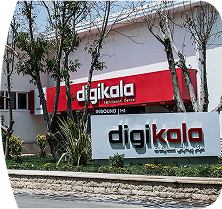
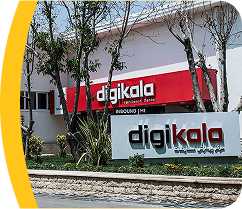
fix event image

diff --git a/public/assets/css/output.css b/public/assets/css/output.css
@@ -7,6 +7,9 @@
       "Segoe UI Emoji", "Segoe UI Symbol", "Noto Color Emoji";
     --font-mono: ui-monospace, SFMono-Regular, Menlo, Monaco, Consolas, "Liberation Mono",
       "Courier New", monospace;
+    --color-yellow-400: oklch(85.2% 0.199 91.936);
+    --color-blue-500: oklch(62.3% 0.214 259.815);
+    --color-gray-100: oklch(96.7% 0.003 264.542);
     --color-black: #000;
     --color-white: #fff;
     --spacing: 0.25rem;
@@ -22,6 +25,9 @@
     --text-xl--line-height: calc(1.75 / 1.25);
     --text-2xl: 1.5rem;
     --text-2xl--line-height: calc(2 / 1.5);
+    --text-3xl: 1.875rem;
+    --text-3xl--line-height: calc(2.25 / 1.875);
+    --font-weight-bold: 700;
     --font-weight-black: 900;
     --radius-lg: 0.5rem;
     --radius-xl: 0.75rem;
@@ -245,6 +251,9 @@
   .left-0 {
     left: calc(var(--spacing) * 0);
   }
+  .z-10 {
+    z-index: 10;
+  }
   .z-50 {
     z-index: 50;
   }
@@ -268,6 +277,9 @@
     @media (width >= 96rem) {
       max-width: 96rem;
     }
+  }
+  .m-5 {
+    margin: calc(var(--spacing) * 5);
   }
   .container {
     margin-inline: auto;
@@ -402,8 +414,14 @@
   .h-14 {
     height: calc(var(--spacing) * 14);
   }
+  .h-18 {
+    height: calc(var(--spacing) * 18);
+  }
   .h-21 {
     height: calc(var(--spacing) * 21);
+  }
+  .h-30 {
+    height: calc(var(--spacing) * 30);
   }
   .h-32 {
     height: calc(var(--spacing) * 32);
@@ -416,6 +434,9 @@
   }
   .h-42\.5 {
     height: calc(var(--spacing) * 42.5);
+  }
+  .h-64 {
+    height: calc(var(--spacing) * 64);
   }
   .h-86 {
     height: calc(var(--spacing) * 86);
@@ -440,6 +461,9 @@
   }
   .h-full {
     height: 100%;
+  }
+  .h-screen {
+    height: 100vh;
   }
   .max-h-12 {
     max-height: calc(var(--spacing) * 12);
@@ -468,6 +492,9 @@
   .w-1\/2 {
     width: calc(1/2 * 100%);
   }
+  .w-2 {
+    width: calc(var(--spacing) * 2);
+  }
   .w-3 {
     width: calc(var(--spacing) * 3);
   }
@@ -494,6 +521,9 @@
   }
   .w-20 {
     width: calc(var(--spacing) * 20);
+  }
+  .w-24 {
+    width: calc(var(--spacing) * 24);
   }
   .w-25 {
     width: calc(var(--spacing) * 25);
@@ -591,6 +621,9 @@
   }
   .grid-cols-3 {
     grid-template-columns: repeat(3, minmax(0, 1fr));
+  }
+  .grid-cols-\[664px_1fr\] {
+    grid-template-columns: 664px 1fr;
   }
   .\[grid-template-rows\:repeat\(2\,86px\)\] {
     grid-template-rows: repeat(2,86px);
@@ -694,6 +727,22 @@
   .rounded-xl {
     border-radius: var(--radius-xl);
   }
+  .rounded-l-\[60px\] {
+    border-top-left-radius: 60px;
+    border-bottom-left-radius: 60px;
+  }
+  .rounded-l-\[200px\] {
+    border-top-left-radius: 200px;
+    border-bottom-left-radius: 200px;
+  }
+  .rounded-l-full {
+    border-top-left-radius: calc(infinity * 1px);
+    border-bottom-left-radius: calc(infinity * 1px);
+  }
+  .rounded-r-\[100\%\] {
+    border-top-right-radius: 100%;
+    border-bottom-right-radius: 100%;
+  }
   .border {
     border-style: var(--tw-border-style);
     border-width: 1px;
@@ -740,6 +789,12 @@
       background-color: color-mix(in oklab, var(--color-black) 20%, transparent);
     }
   }
+  .bg-blue-500 {
+    background-color: var(--color-blue-500);
+  }
+  .bg-gray-100 {
+    background-color: var(--color-gray-100);
+  }
   .bg-gray-box-job {
     background-color: var(--color-gray-box-job);
   }
@@ -755,6 +810,9 @@
   .bg-white {
     background-color: var(--color-white);
   }
+  .bg-yellow-400 {
+    background-color: var(--color-yellow-400);
+  }
   .bg-none {
     background-image: none;
   }
@@ -769,6 +827,12 @@
   }
   .p-3 {
     padding: calc(var(--spacing) * 3);
+  }
+  .p-5 {
+    padding: calc(var(--spacing) * 5);
+  }
+  .p-10 {
+    padding: calc(var(--spacing) * 10);
   }
   .px-2 {
     padding-inline: calc(var(--spacing) * 2);
@@ -797,14 +861,26 @@
   .pt-20 {
     padding-top: calc(var(--spacing) * 20);
   }
+  .pr-1 {
+    padding-right: calc(var(--spacing) * 1);
+  }
+  .pr-2 {
+    padding-right: calc(var(--spacing) * 2);
+  }
   .pr-3 {
     padding-right: calc(var(--spacing) * 3);
   }
   .pr-6 {
     padding-right: calc(var(--spacing) * 6);
   }
+  .pb-1 {
+    padding-bottom: calc(var(--spacing) * 1);
+  }
   .pb-2 {
     padding-bottom: calc(var(--spacing) * 2);
+  }
+  .pb-3 {
+    padding-bottom: calc(var(--spacing) * 3);
   }
   .pb-4 {
     padding-bottom: calc(var(--spacing) * 4);
@@ -824,6 +900,12 @@
   .pl-2 {
     padding-left: calc(var(--spacing) * 2);
   }
+  .pl-3 {
+    padding-left: calc(var(--spacing) * 3);
+  }
+  .pl-6 {
+    padding-left: calc(var(--spacing) * 6);
+  }
   .pl-8 {
     padding-left: calc(var(--spacing) * 8);
   }
@@ -842,6 +924,10 @@
   }
   .font-IRANSansX-Regular {
     font-family: var(--font-IRANSansX-Regular);
+  }
+  .text-3xl {
+    font-size: var(--text-3xl);
+    line-height: var(--tw-leading, var(--text-3xl--line-height));
   }
   .text-base {
     font-size: var(--text-base);
@@ -876,6 +962,10 @@
   .font-black {
     --tw-font-weight: var(--font-weight-black);
     font-weight: var(--font-weight-black);
+  }
+  .font-bold {
+    --tw-font-weight: var(--font-weight-bold);
+    font-weight: var(--font-weight-bold);
   }
   .text-Primary_shade_5 {
     color: var(--color-Primary_shade_5);
@@ -944,6 +1034,9 @@
   .outline-none {
     --tw-outline-style: none;
     outline-style: none;
+  }
+  .\[clip-path\:polygon\(0_0\,100\%_0\,100\%_80\%\,0_100\%\)\] {
+    clip-path: polygon(0 0,100% 0,100% 80%,0 100%);
   }
   .\*\:h-auto {
     :is(& > *) {

diff --git a/public/index.html b/public/index.html
@@ -1943,6 +1943,7 @@
         <!-- Events Body -->
         <div class="grid grid-cols-2 max-sm:hidden gap-x-6 gap-y-6">
           <!-- Event Card -->
+
           <div class="rounded-3xl border border-gray-2">
             <div class="flex gap-x-3">
               <img
@@ -1951,7 +1952,7 @@
                 class="event__image"
               />
 
-              <div class="pl-8 pt-8 pr-6 pb-6 flex gap-y-3 flex-col">
+              <div class="pl-3 pt-8 pr-2 pb-6 flex gap-y-3 flex-col">
                 <div class="flex gap-y-3 flex-col min-h-25.5">
                   <a href="#">
                     <h5 class="font-IRANSansX-Bold text-[20px] text-gray-7">
@@ -1984,7 +1985,6 @@
             </div>
           </div>
 
-          <!-- Event Card -->
           <div class="rounded-3xl border border-gray-2">
             <div class="flex gap-x-3">
               <img
@@ -1993,7 +1993,7 @@
                 class="event__image"
               />
 
-              <div class="pl-8 pt-8 pr-6 pb-6 flex gap-y-3 flex-col">
+              <div class="pl-3 pt-8 pr-2 pb-6 flex gap-y-3 flex-col">
                 <div class="flex gap-y-3 flex-col min-h-25.5">
                   <a href="#">
                     <h5 class="font-IRANSansX-Bold text-[20px] text-gray-7">
@@ -2026,7 +2026,6 @@
             </div>
           </div>
 
-          <!-- Event Card -->
           <div class="rounded-3xl border border-gray-2">
             <div class="flex gap-x-3">
               <img
@@ -2035,7 +2034,7 @@
                 class="event__image"
               />
 
-              <div class="pl-8 pt-8 pr-6 pb-6 flex gap-y-3 flex-col">
+              <div class="pl-3 pt-8 pr-2 pb-6 flex gap-y-3 flex-col">
                 <div class="flex gap-y-3 flex-col min-h-25.5">
                   <a href="#">
                     <h5 class="font-IRANSansX-Bold text-[20px] text-gray-7">
@@ -2068,7 +2067,6 @@
             </div>
           </div>
 
-          <!-- Event Card -->
           <div class="rounded-3xl border border-gray-2">
             <div class="flex gap-x-3">
               <img
@@ -2077,7 +2075,7 @@
                 class="event__image"
               />
 
-              <div class="pl-8 pt-8 pr-6 pb-6 flex gap-y-3 flex-col">
+              <div class="pl-3 pt-8 pr-2 pb-6 flex gap-y-3 flex-col">
                 <div class="flex gap-y-3 flex-col min-h-25.5">
                   <a href="#">
                     <h5 class="font-IRANSansX-Bold text-[20px] text-gray-7">
@@ -2115,10 +2113,10 @@
     <!-- End Main -->
 
     <!-- Footer -->
-    <footer class="">
+    <footer>
       <div class="bg__footer">
         <div class="container">
-          <div class="grid grid-cols-2 gap-x-20">
+          <div class="grid grid-cols-[664px_1fr] gap-x-20">
             <!-- Right Section Footer -->
             <div class="mt-28">
               <div class="grid grid-cols-3 mb-9">
@@ -2296,4 +2294,5 @@
 <!-- // TODO:fix event image -->
 <!-- // TODO:check style of jobs -->
 <!-- // TODO:finish footer and responsive it for other devices -->
+<!-- // TODO:check sizes and gap footer -->
 <!-- // TODO:check all project styles , font, size .... -->
